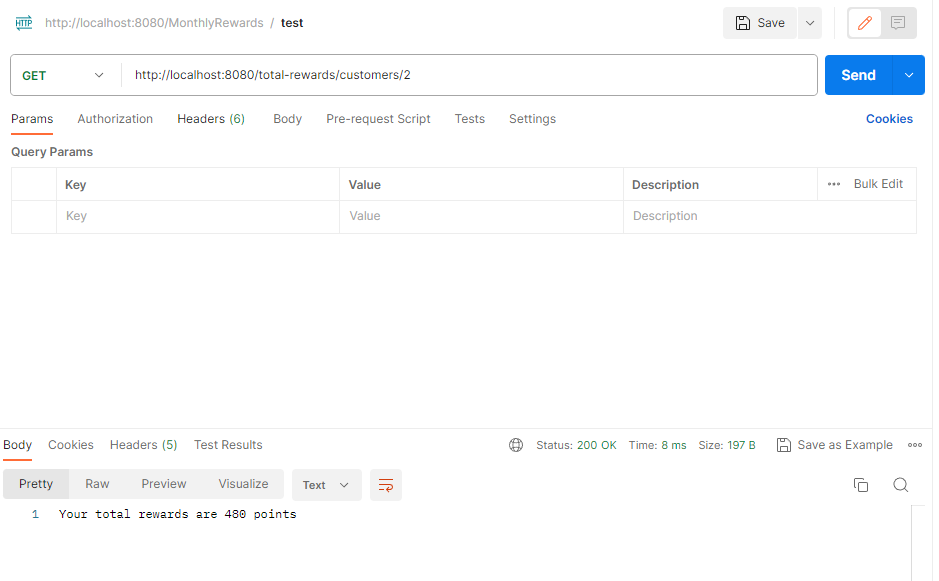
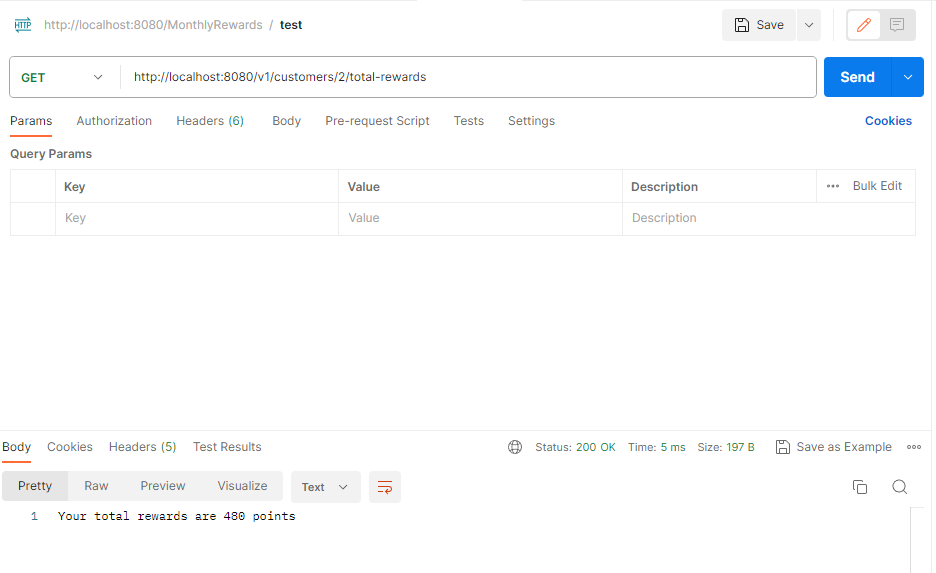
optimizing controller

diff --git a/src/main/java/com/challenge/code/controller/RewardsController.java b/src/main/java/com/challenge/code/controller/RewardsController.java
@@ -5,13 +5,11 @@ import com.challenge.code.service.RewardsService;
 import lombok.extern.slf4j.Slf4j;
 import org.springframework.beans.factory.annotation.Autowired;
 import org.springframework.http.ResponseEntity;
-import org.springframework.web.bind.annotation.GetMapping;
-import org.springframework.web.bind.annotation.PathVariable;
-import org.springframework.web.bind.annotation.RequestParam;
-import org.springframework.web.bind.annotation.RestController;
+import org.springframework.web.bind.annotation.*;
 
 @Slf4j
 @RestController
+@RequestMapping("/v1/customers")
 public class RewardsController {
 
     private final RewardsService rewardsService;
@@ -21,7 +19,7 @@ public class RewardsController {
         this.rewardsService = rewardsService;
     }
 
-    @GetMapping("/monthly-rewards/customers/{customerId}")
+    @GetMapping("/{customerId}/monthly-rewards")
     public ResponseEntity getMonthlyRewardReport(@PathVariable Integer customerId) throws ServiceException{
 
         long start = System.nanoTime();
@@ -38,7 +36,7 @@ public class RewardsController {
         return ResponseEntity.ok().body(report);
     }
 
-    @GetMapping("/total-rewards/customers/{customerId}")
+    @GetMapping("/{customerId}/total-rewards")
     public ResponseEntity getTotalRewardReport(@PathVariable Integer customerId) throws ServiceException{
 
         long start = System.nanoTime();
